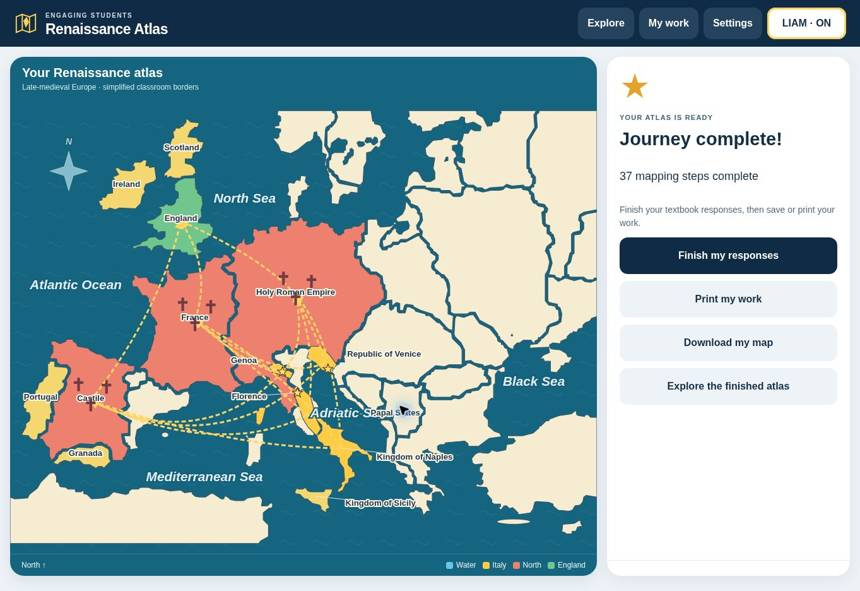
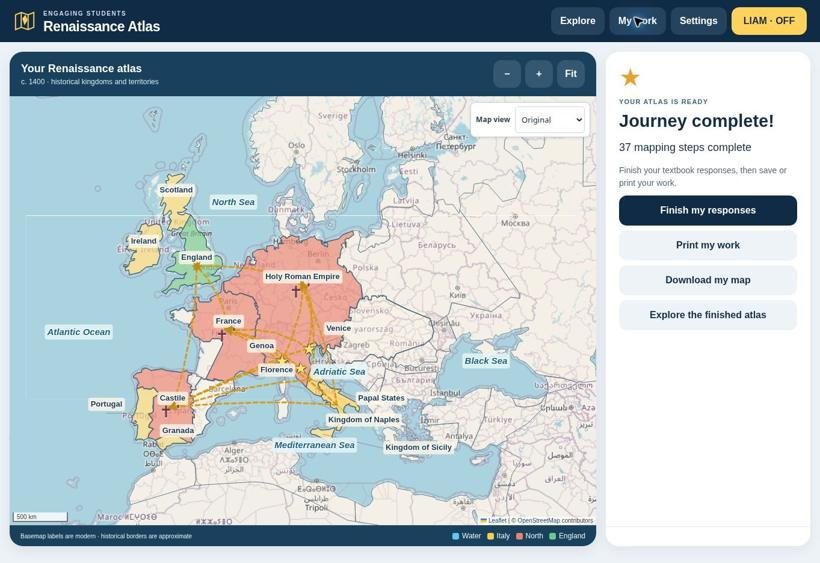
Finish geographic atlas exports, align Ottoman coastlines and refresh hub preview

diff --git a/renaissance-map/index.html b/renaissance-map/index.html
@@ -27,7 +27,7 @@
 <dialog class="modal" id="notebook" aria-labelledby="notebook-title"><button class="close" data-close>Close</button><button id="notebook-save" class="notebook-save" hidden>Save or print</button><h2 id="notebook-title">My Renaissance work</h2><p id="notebook-intro"></p><p class="status"></p><div id="questions"></div><div id="notebook-pager" hidden><button id="question-back">← Back</button><span id="question-number"></span><button id="question-next" class="primary">Next question →</button></div><p id="import-status" role="status"></p><div class="savebar"><button id="download-work" class="primary">Download work</button><button id="load-work">Open saved work</button><button id="print-work">Print</button><button id="download-map">Europe map</button><button id="download-ottoman">Ottoman map</button><button data-close>Done</button></div><input type="file" id="work-file" accept="application/json,.json" hidden></dialog>
 <dialog class="modal" id="settings-dialog" aria-labelledby="settings-title"><button class="close" data-close>Close</button><h2 id="settings-title">Access settings</h2><p><strong>LIAM mode:</strong> two large answer buttons, one step at a time, a still map, and a separate Next button. Every mapping task stays available. Use ChromeOS Face Control or your usual pointer to click; this activity does not use the camera.</p><div class="settings-line"><input id="read-auto" type="checkbox"><label for="read-auto">Read each step aloud</label></div><div class="settings-line"><input id="dwell" type="checkbox"><label for="dwell">Hold the pointer over a button to select</label></div><div class="settings-line"><label for="dwell-time">Hold time</label><select id="dwell-time"><option value="1200">1.2 seconds</option><option value="1800">1.8 seconds</option><option value="2500">2.5 seconds</option></select></div><p>Hold-to-select is optional. Leave it off if your face-control tool already generates clicks. There is no timer or penalty for trying again.</p><h3>About the maps</h3><p>Historical polygons use André Ourednik’s Historical Basemaps GeoJSON for circa 1400. Borders are approximate reconstructions at continental scale. Ireland identifies the island; the England outline includes Wales as on the classroom map. Castile remains separate from Aragon and Granada. The dataset’s mainland “Sicily” is labelled Kingdom of Naples, with island Sicily shown separately. Genoa uses a supplementary approximate mainland coastal outline. Overseas possessions of the Italian republics are omitted. The OpenStreetMap background shows modern place names and borders; coloured outlines show the historical teaching layer.</p><p>The separate Ottoman GeoJSON overlay is digitised and approximately georeferenced from the assignment’s 1683 reference. Its coastline and frontier alignment is less precise than the main Europe layer. Its ruling religion was Islam, but the empire contained many religious communities.</p><p>Yellow, red and green follow the assignment’s teaching colour key. The Renaissance spread over centuries through many routes; the arrows show classroom connections rather than dated journeys. Spain is grouped with the northern destinations as instructed in the assignment.</p><h3>Map data</h3><p><a href="https://github.com/aourednik/historical-basemaps" target="_blank" rel="noopener">Historical Basemaps · André Ourednik</a> (<a href="HISTORICAL-DATA-LICENSE.txt">GPL-3.0 licence</a>); <a href="https://www.naturalearthdata.com/about/terms-of-use/" target="_blank" rel="noopener">Natural Earth coastlines · public domain</a>; OpenStreetMap contributors. <a href="data/README.md">Data sources and adaptations</a>. The historical dataset is provided without warranty and may be redistributed under its licence.</p><h3>Sources</h3><p>Classroom source: <em>Interactive Renaissance Map</em>, including the original questions and textbook page references. Background reading: <a href="https://www.metmuseum.org/toah/ht/08/eustc.html" target="_blank" rel="noopener">The Met: Florence and Central Italy</a>; <a href="https://www.metmuseum.org/learn/educators/curriculum-resources/art-of-the-islamic-world/unit-seven/chapter-two/introduction" target="_blank" rel="noopener">The Met: Venice and trade</a>; <a href="https://www.metmuseum.org/exhibitions/layered-narratives-the-northern-renaissance-gallery/visiting-guide" target="_blank" rel="noopener">The Met: the Northern Renaissance</a>.</p><div class="settings-line"><button id="restart">Start over</button><a href="../interactive-learning-lab/">Back to the Learning Lab</a></div></dialog>
 <dialog class="modal" id="restart-dialog" aria-labelledby="restart-title"><h2 id="restart-title">Start a new atlas?</h2><p>This clears this device’s map and responses. Download your work first if you want to keep it.</p><div class="settings-line"><button data-close>Keep my work</button><button class="primary" id="confirm-restart">Start over</button></div></dialog>
-<dialog class="modal" id="save-dialog" aria-labelledby="save-title"><button class="close" data-close>Close</button><h2 id="save-title">Keep my work</h2><div class="save-choices"><button data-action="download-work">Download work</button><button data-action="print-work">Print my work</button><button data-action="download-map">Download Europe map</button><button data-action="download-ottoman">Download Ottoman map</button><button data-action="load-work">Open saved work</button></div></dialog><div class="paper-work" id="paper-work"></div><script src="https://unpkg.com/leaflet@1.9.4/dist/leaflet.js"></script><script src="basemap.js?v=20261008-geography2"></script><script>'use strict';
+<dialog class="modal" id="save-dialog" aria-labelledby="save-title"><button class="close" data-close>Close</button><h2 id="save-title">Keep my work</h2><div class="save-choices"><button data-action="download-work">Download work</button><button data-action="print-work">Print my work</button><button data-action="download-map">Download Europe map</button><button data-action="download-ottoman">Download Ottoman map</button><button data-action="load-work">Open saved work</button></div></dialog><div class="paper-work" id="paper-work"></div><script src="https://unpkg.com/leaflet@1.9.4/dist/leaflet.js"></script><script src="basemap.js?v=20261008-geography3"></script><script>'use strict';
 const $=s=>document.querySelector(s),$$=s=>[...document.querySelectorAll(s)],NS='http://www.w3.org/2000/svg';
 
 const locations={
@@ -128,13 +128,13 @@ const t=tasks[state.index];if(state.view==='mission'&&t&&t.type!=='religionChoic
 arrangeLabels();
 }
 function applyView(){fitPending=true;fitMap();}
-async function loadMaps(){try{if(!window.L)throw Error('The map library could not load.');const names=['europe-1400','context-1400','ottoman-1683','land'];const values=await Promise.all(names.map(async n=>{const r=await fetch('data/'+n+'.geojson?v=20261008-geography2');if(!r.ok)throw Error('Map data could not load.');const j=await r.json();if(j.type!=='FeatureCollection'||!Array.isArray(j.features))throw Error('Map data is incomplete.');return j;}));geo={europe:values[0],context:values[1],ottoman:values[2],land:values[3]};map=L.map('map',{zoomControl:false,attributionControl:true,preferCanvas:false,minZoom:2,maxZoom:10,zoomSnap:.25,worldCopyJump:false,maxBounds:[[-5,-50],[75,85]],maxBoundsViscosity:1});base=addSchoolBasemap(map,{maxZoom:10});L.control.scale({imperial:false,position:'bottomleft',maxWidth:100}).addTo(map);overlay=L.layerGroup().addTo(map);map.on('screenresize',()=>{if(state.liam)fitMap();renderMap();});map.on('zoomend',()=>{if(loaded&&!fitting)renderMap();});loaded=true;$('#map-loading').hidden=true;currentScope='';render();}catch(e){$('#map-loading').innerHTML='<strong>The map could not load.</strong><p>Your saved work is safe.</p><button id="retry-map">Try again</button>';$('#retry-map').onclick=()=>location.reload();feedback('The map could not load. Choose Try again.');$('#answers').querySelectorAll('button').forEach(b=>b.disabled=true);}}
+async function loadMaps(){try{if(!window.L)throw Error('The map library could not load.');const names=['europe-1400','context-1400','ottoman-1683','land'];const values=await Promise.all(names.map(async n=>{const r=await fetch('data/'+n+'.geojson?v=20261008-geography3');if(!r.ok)throw Error('Map data could not load.');const j=await r.json();if(j.type!=='FeatureCollection'||!Array.isArray(j.features))throw Error('Map data is incomplete.');return j;}));geo={europe:values[0],context:values[1],ottoman:values[2],land:values[3]};map=L.map('map',{zoomControl:false,attributionControl:true,preferCanvas:false,minZoom:2,maxZoom:10,zoomSnap:.25,worldCopyJump:false,maxBounds:[[-5,-50],[75,85]],maxBoundsViscosity:1});base=addSchoolBasemap(map,{maxZoom:10});L.control.scale({imperial:false,position:'bottomleft',maxWidth:100}).addTo(map);overlay=L.layerGroup().addTo(map);map.on('screenresize',()=>{if(state.liam)fitMap();renderMap();});map.on('zoomend',()=>{if(loaded&&!fitting)renderMap();});loaded=true;$('#map-loading').hidden=true;currentScope='';render();}catch(e){$('#map-loading').innerHTML='<strong>The map could not load.</strong><p>Your saved work is safe.</p><button id="retry-map">Try again</button>';$('#retry-map').onclick=()=>location.reload();feedback('The map could not load. Choose Try again.');$('#answers').querySelectorAll('button').forEach(b=>b.disabled=true);}}
 // Exports use the same GeoJSON and geographic projection as the live atlas.
 // This keeps labels, colouring, city stars and arrows in their mapped positions.
 function makeMapSVG(empire=false){const bounds=empire?OTTOMAN_BOUNDS:EUROPE_BOUNDS,W=1000,H=680,merc=lat=>Math.log(Math.tan(Math.PI/4+Math.max(-85,Math.min(85,lat))*Math.PI/360));const x0=bounds[0][1]*Math.PI/180,x1=bounds[1][1]*Math.PI/180,y0=merc(bounds[0][0]),y1=merc(bounds[1][0]);const scale=Math.min((W-50)/(x1-x0),(H-70)/(y1-y0)),ox=(W-scale*(x1-x0))/2,oy=(H-scale*(y1-y0))/2;const pt=([lat,lon])=>[ox+(lon*Math.PI/180-x0)*scale,oy+(y1-merc(lat))*scale];const svg=el('svg',{xmlns:NS,viewBox:`0 0 ${W} ${H}`,width:W,height:H});const defs=el('defs');defs.innerHTML='<marker id="export-arrow" viewBox="0 0 10 10" refX="8" refY="5" markerWidth="5" markerHeight="5" orient="auto"><path d="M0 0 10 5 0 10Z" fill="#b88416"/></marker>';svg.append(defs,el('rect',{width:W,height:H,fill:'#d6e8ed'}));
 function pathGeom(f,fill,stroke='#778b95',opacity=1){const geom=f.geometry;if(!['Polygon','MultiPolygon'].includes(geom.type))return;const polys=geom.type==='Polygon'?[geom.coordinates]:geom.coordinates;const d=polys.map(poly=>poly.map(ring=>'M'+ring.map(([lon,lat])=>pt([lat,lon]).map(n=>n.toFixed(1)).join(',')).join('L')+'Z').join('')).join('');svg.append(el('path',{d,fill,stroke,'stroke-width':.8,'fill-opacity':opacity,'fill-rule':'evenodd'}));}
 geo.land.features.forEach(f=>pathGeom(f,'#f9f3e1','#93a2a8'));if(!empire)geo.context.features.forEach(f=>pathGeom(f,'#fbf5e6','#84949b',.5));(empire?geo.ottoman:geo.europe).features.forEach(f=>pathGeom(f,empire?isDone('empire','ottoman')?'#ac7350':'#dec6ae':fillsFor(f.properties.id)||'#fbf5e6','#4c6979',.8));
-function txt(ll,text,size=15,fill='#233e4b'){const p=pt(ll);const t=el('text',{x:p[0],y:p[1],'text-anchor':'middle','font-family':'Arial,sans-serif','font-size':size,'font-weight':700,fill,stroke:'#fffaf0','stroke-width':3,'paint-order':'stroke'},text);svg.append(t);}
+function txt(ll,text,size=15,fill='#233e4b'){const p=pt(ll),attrs={x:p[0],y:p[1],'text-anchor':'middle','font-family':'Arial,sans-serif','font-size':size,'font-weight':700};svg.append(el('text',{...attrs,fill:'#fffaf0',stroke:'#fffaf0','stroke-width':3,'stroke-linejoin':'round'},text),el('text',{...attrs,fill},text));}
 function route(a,b,j){const f=pt(locations[a].ll),t=pt(locations[b].ll);svg.append(el('path',{d:`M${f} Q${(f[0]+t[0])/2+20+j*8},${(f[1]+t[1])/2-20-j*4} ${t}`,fill:'none',stroke:'#b88416','stroke-width':2.2,'stroke-dasharray':'6 4','marker-end':'url(#export-arrow)'}));}
 if(!empire){for(const i of state.done){const t=tasks[i];if(t.type==='spread')['naples','genoa','papal','veniceState'].forEach((k,j)=>route(k,t.target,j));if(t.type==='englandArrow')['france','castile','hre'].forEach((k,j)=>route(k,'england',j));}
 for(const [k,l]of Object.entries(locations)){const ll=LABEL_OFFSETS[k]||l.ll;if(l.type==='water'&&isDone('water',k))txt(l.ll,l.name,19,'#236d95');if(l.ids&&!(k==='genoa'&&isDone('city','genoaCity'))&&!(k==='veniceState'&&isDone('city','venice'))&&state.done.some(i=>tasks[i].target===k&&['label','italian','northern','englandGreen'].includes(tasks[i].type)))txt(ll,k==='castile'?'Castile':l.name);if(l.type==='city'&&isDone('city',k)){const a=pt(l.ll),b=pt(ll);svg.append(el('line',{x1:a[0],y1:a[1],x2:b[0],y2:b[1],stroke:'#4c6979'}));txt(l.ll,'★',23,'#c58a15');txt(ll,l.name);}if(isDone('cross',k))txt([l.ll[0]+1,l.ll[1]],'✝ ✝',22,'#713b44');}}

diff --git a/renaissance-map/screen-checks-v2.html b/renaissance-map/screen-checks-v2.html
@@ -1,1 +1,1 @@
-<!doctype html><html lang="en"><meta charset="utf-8"><meta name="viewport" content="width=device-width,initial-scale=1"><title>Renaissance Atlas screen checks</title><style>body{font:16px Arial;margin:12px;background:#ddd}nav{display:flex;gap:8px;flex-wrap:wrap;margin-bottom:10px}button{font:inherit;padding:10px}iframe{border:0;background:white}label{display:inline-block;margin:8px}input{width:80px;font:inherit}</style><h1>Renaissance Atlas screen checks</h1><nav><button data-width="1024" data-height="540">1024 × 540</button><button data-width="1366" data-height="650">1366 × 650</button><button data-width="768" data-height="900">768 × 900</button><button data-width="390" data-height="667">390 × 667</button><button data-width="320" data-height="568">320 × 568</button><button data-width="640" data-height="360">640 × 360</button></nav><label>Width <input id="width" type="number" value="1024"></label><label>Height <input id="height" type="number" value="540"></label><button id="resize">Resize frame</button><p id="size">1024 × 540</p><iframe id="frame" title="Activity at test size" src="index.html?v=geographic2-20261008" width="1024" height="540"></iframe><script>const f=document.querySelector('iframe');function size(w,h){f.width=w;f.height=h;document.querySelector('#width').value=w;document.querySelector('#height').value=h;document.querySelector('#size').textContent=w+' × '+h;}document.querySelectorAll('nav button').forEach(b=>b.onclick=()=>size(b.dataset.width,b.dataset.height));document.querySelector('#resize').onclick=()=>size(document.querySelector('#width').value,document.querySelector('#height').value);</script></html>
+<!doctype html><html lang="en"><meta charset="utf-8"><meta name="viewport" content="width=device-width,initial-scale=1"><title>Renaissance Atlas screen checks</title><style>body{font:16px Arial;margin:12px;background:#ddd}nav{display:flex;gap:8px;flex-wrap:wrap;margin-bottom:10px}button{font:inherit;padding:10px}iframe{border:0;background:white}label{display:inline-block;margin:8px}input{width:80px;font:inherit}</style><h1>Renaissance Atlas screen checks</h1><nav><button data-width="1024" data-height="540">1024 × 540</button><button data-width="1366" data-height="650">1366 × 650</button><button data-width="768" data-height="900">768 × 900</button><button data-width="390" data-height="667">390 × 667</button><button data-width="320" data-height="568">320 × 568</button><button data-width="640" data-height="360">640 × 360</button></nav><label>Width <input id="width" type="number" value="1024"></label><label>Height <input id="height" type="number" value="540"></label><button id="resize">Resize frame</button><p id="size">1024 × 540</p><iframe id="frame" title="Activity at test size" src="index.html?v=geographic3-20261008" width="1024" height="540"></iframe><script>const f=document.querySelector('iframe');function size(w,h){f.width=w;f.height=h;document.querySelector('#width').value=w;document.querySelector('#height').value=h;document.querySelector('#size').textContent=w+' × '+h;}document.querySelectorAll('nav button').forEach(b=>b.onclick=()=>size(b.dataset.width,b.dataset.height));document.querySelector('#resize').onclick=()=>size(document.querySelector('#width').value,document.querySelector('#height').value);</script></html>

diff --git a/interactive-learning-lab/index.html b/interactive-learning-lab/index.html
@@ -1924,18 +1924,18 @@
       "Accessibility"
     ],
     "group": "World",
-    "description": "Build a historical atlas with waterways, kingdoms, city stars and Renaissance routes. LIAM mode uses two large choices and simple phrase responses.",
+    "description": "Build a geographic atlas with shared basemaps, historical GeoJSON, city stars and Renaissance routes. LIAM mode uses two large choices and simple phrase responses.",
     "favourite": true,
     "tags": [
       "Medieval Europe",
       "LIAM mode",
       "Save & print"
     ],
-    "url": "https://interactives.blackgold.ca/renaissance-map/",
+    "url": "https://interactives.blackgold.ca/renaissance-map/?v=20261008-geographic3",
     "links": [
       {
         "label": "Open in LIAM mode",
-        "url": "https://interactives.blackgold.ca/renaissance-map/?liam=1"
+        "url": "https://interactives.blackgold.ca/renaissance-map/?liam=1&v=20261008-geographic3"
       }
     ],
     "credit": "Engaging Students · classroom Renaissance mapping assignment",
@@ -1946,7 +1946,7 @@
       "Writing",
       "Printables"
     ],
-    "image": "../renaissance-map/preview.jpg?v=20261008"
+    "image": "../renaissance-map/preview.jpg?v=20261008-geographic"
   },
   {
     "id": "railways-and-immigration",

diff --git a/renaissance-map/data/README.md b/renaissance-map/data/README.md
@@ -14,7 +14,7 @@ Adaptations: split the source's English-territory feature into the island of Ire
 
 ## Ottoman Empire 1683
 
-`ottoman-1683.geojson` is an approximate overlay digitised from the provided classroom map showing 1683, then georeferenced with an thin-plate-spline fit to city positions in Web Mercator. It is source-derived classroom cartography; its frontier and coastline alignment is less precise than the Europe layer. It remains separate from the circa-1400 map. It must not be interpreted as Ottoman extent in 1400.
+`ottoman-1683.geojson` is an approximate overlay digitised from the provided classroom map showing 1683, then georeferenced with an thin-plate-spline fit to city positions in Web Mercator. The outer extent is intersected with Natural Earth land to align coastlines and exclude seas. It is source-derived classroom cartography; its frontier reconstruction is less precise than the Europe layer. It remains separate from the circa-1400 map. It must not be interpreted as Ottoman extent in 1400.
 
 ## Coastlines and basemap
 
